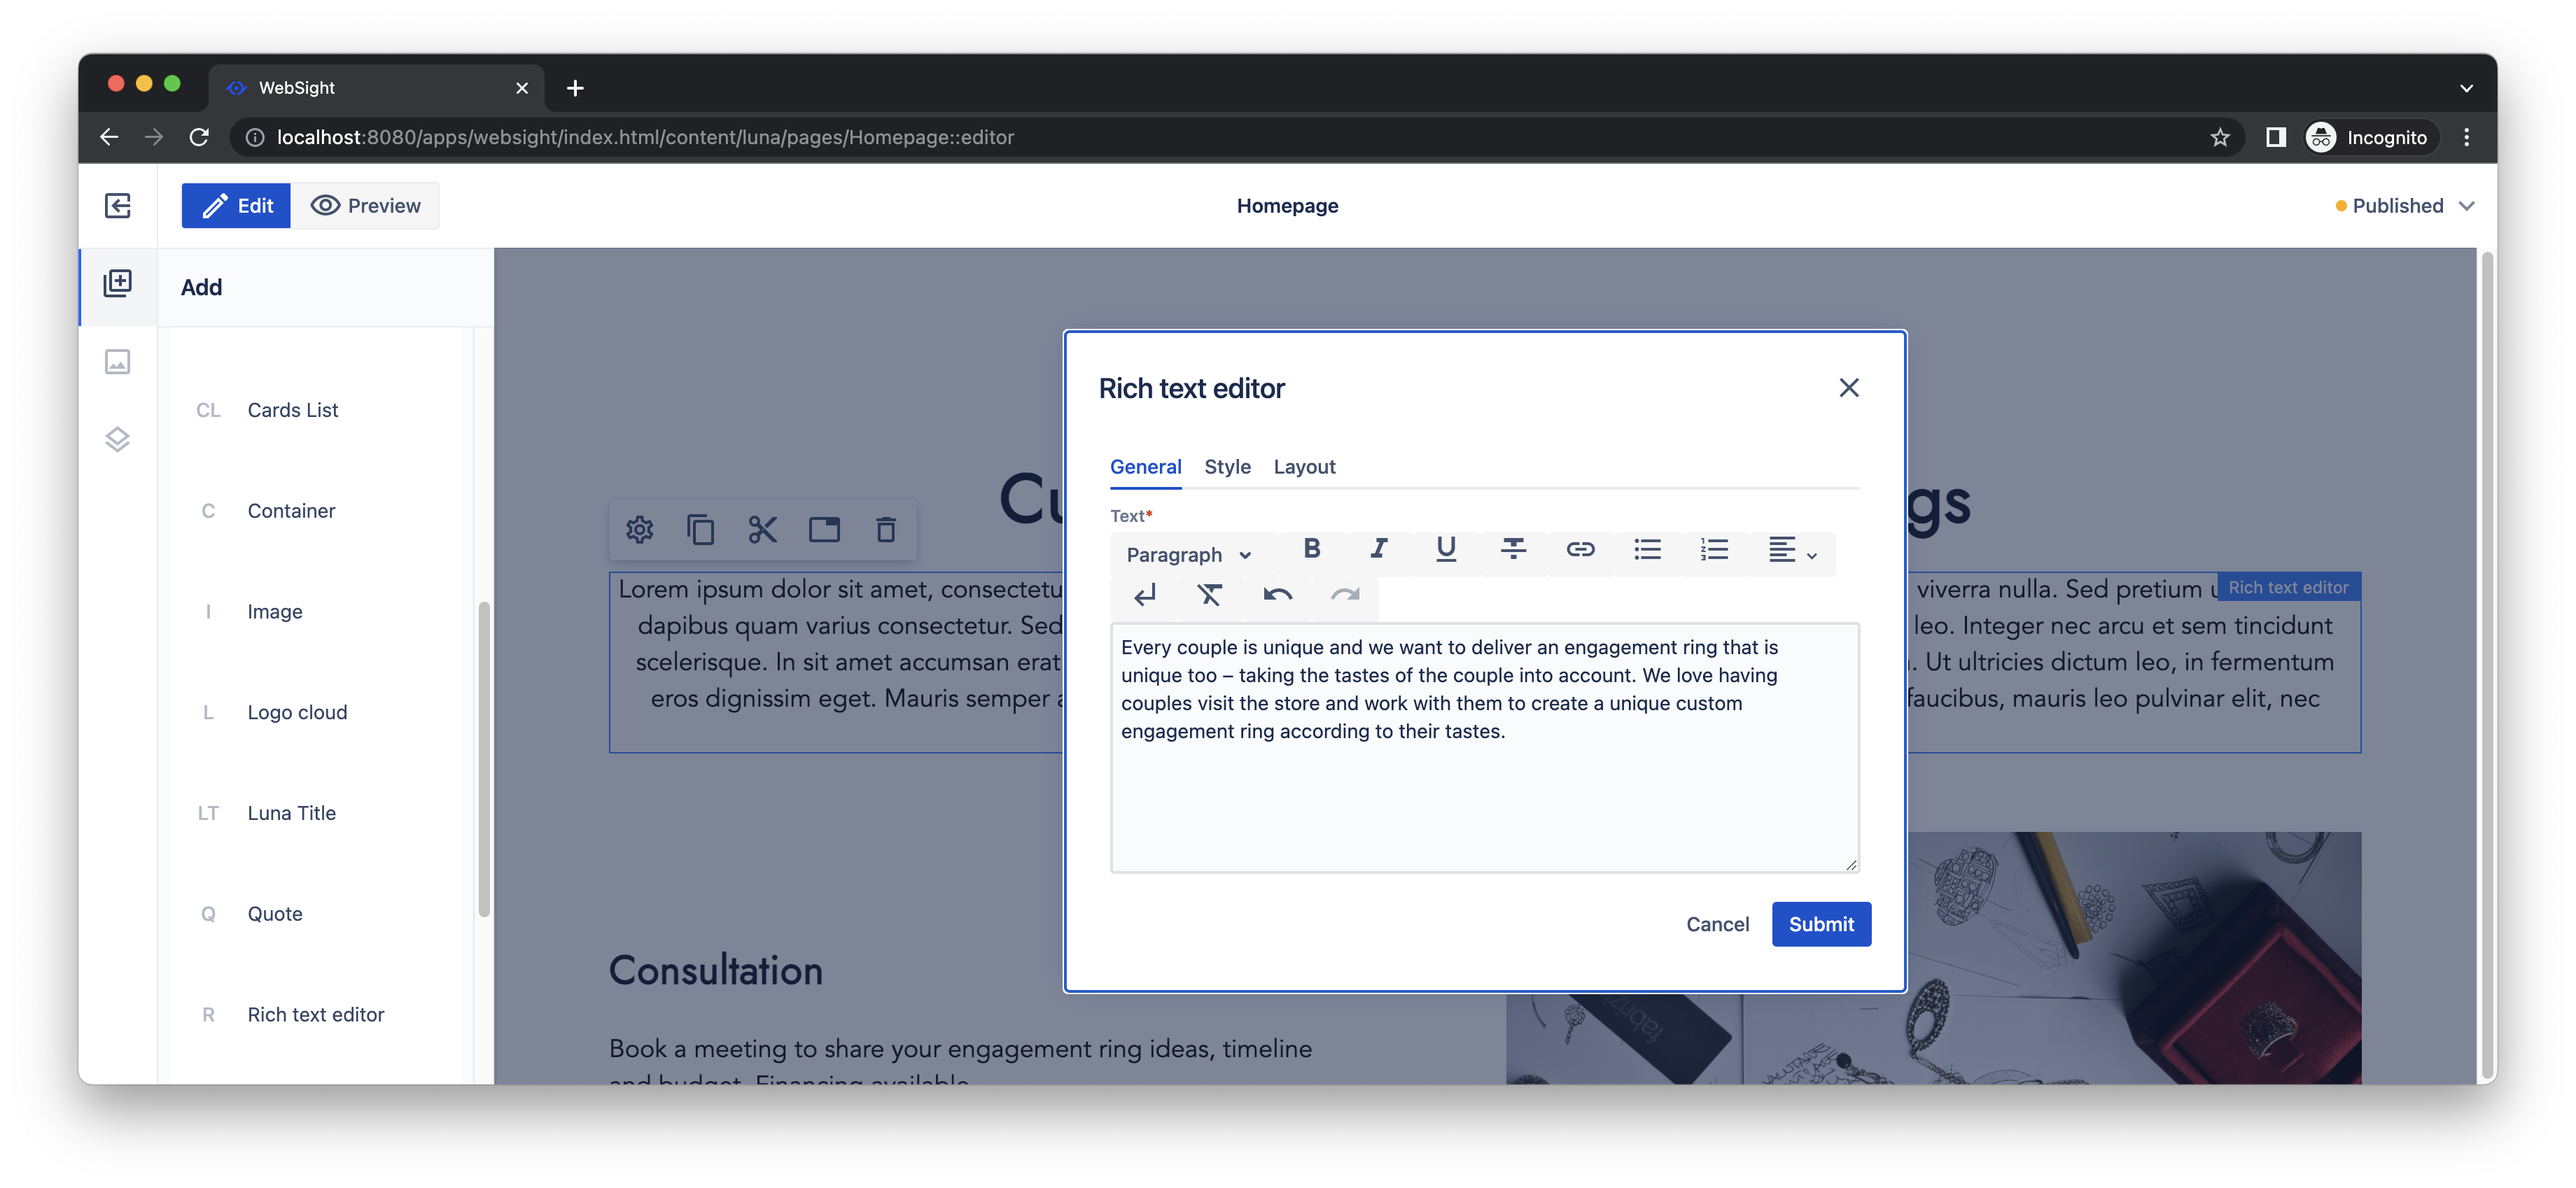
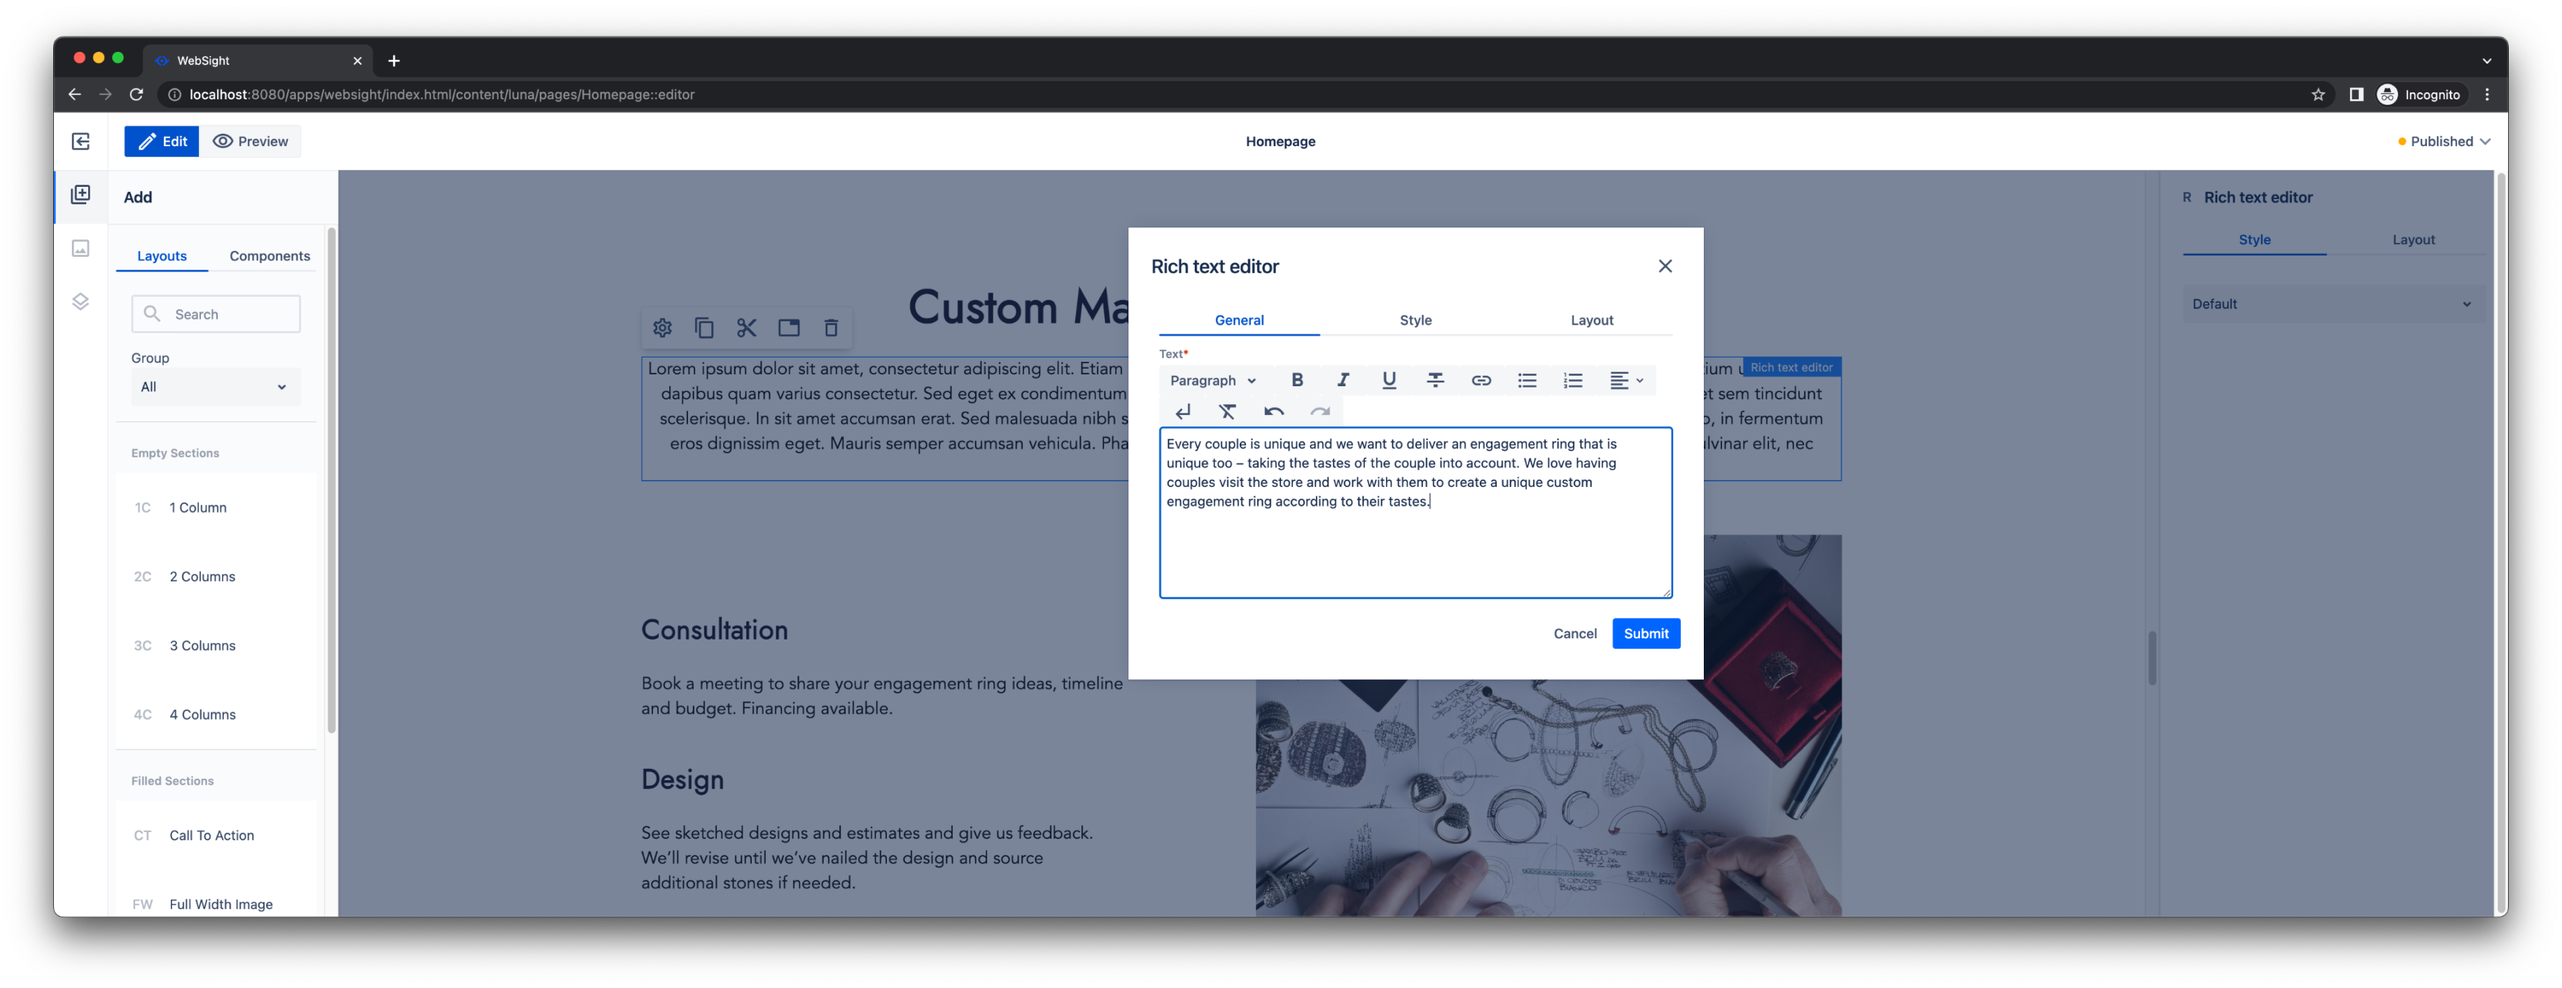
Update screenshots in quick start guides with side panel + mention side panel in dialogs docs

diff --git a/docs/docs/developers/development/dialogs/index.md b/docs/docs/developers/development/dialogs/index.md
@@ -4,6 +4,12 @@ The Dialogs framework in WebSight CMS allows users to define dialog field compon
 
 WebSight CMS delivers a set of ready-to-use components. These are detailed in the subsections of this documentation page.
 
+!!! info "Rendering dialogs"
+
+    In this documentation, we present dialogs configurations in a modal, which is the default dialog rendering.
+    However, dialogs can be rendered in other ways, for example as a [side panel](../page-editor/side-panel). 
+
+
 ## Dialog structure
 Each dialog can be build out of two element types:
 
